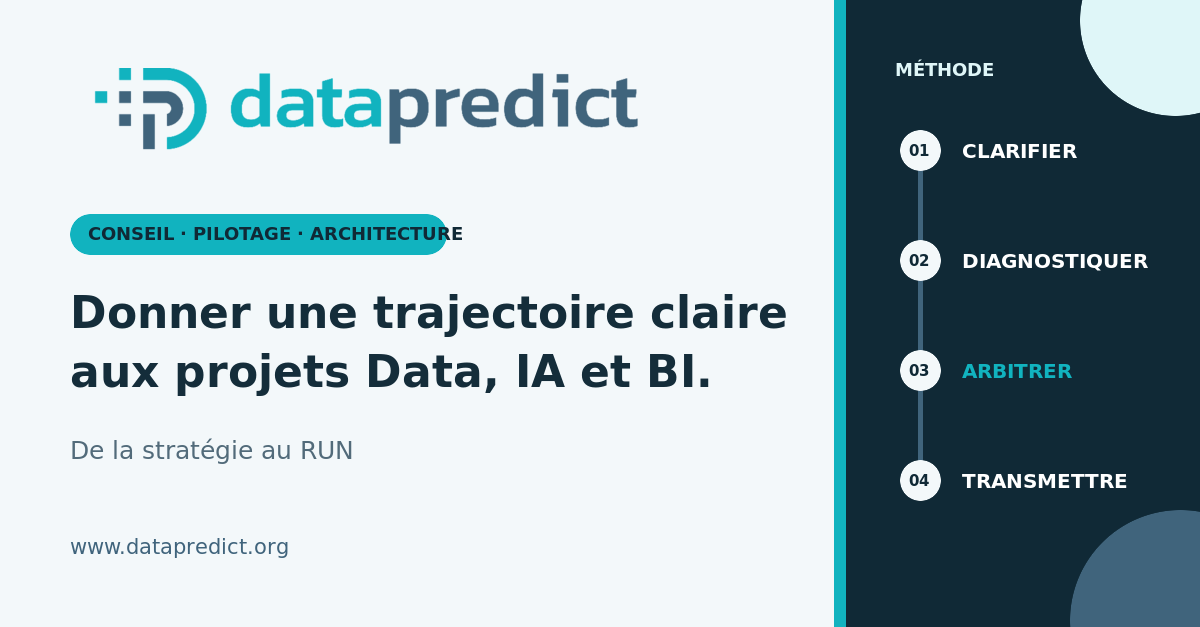
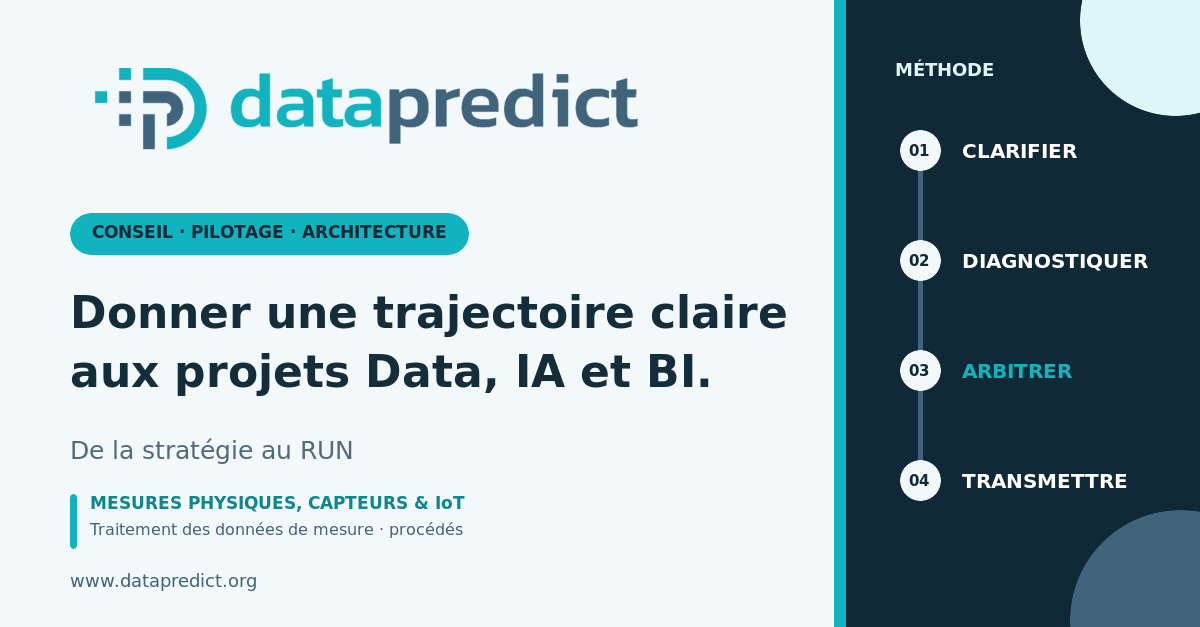
Corriger l’aperçu social datapredict

Changed region(s): [[0.0308, 0.7879, 0.4008, 0.9394], [0.0617, 0.3333, 0.4008, 0.4242]]

diff --git a/cas-clients.html b/cas-clients.html
@@ -16,10 +16,10 @@
   <meta property="og:image:type" content="image/png">
   <meta property="og:image:width" content="1200">
   <meta property="og:image:height" content="627">
-  <meta property="og:image:alt" content="Visuel datapredict : conseil, pilotage et architecture Data, IA et BI ; méthode clarifier, diagnostiquer, arbitrer, transmettre.">
+  <meta property="og:image:alt" content="Visuel datapredict : conseil, pilotage et architecture Data, IA et BI ; mesures physiques, capteurs et IoT ; méthode clarifier, diagnostiquer, arbitrer, transmettre.">
   <meta name="twitter:card" content="summary_large_image">
   <meta name="twitter:image" content="https://www.datapredict.org/assets/img/social-datapredict.png">
-  <meta name="twitter:image:alt" content="Visuel datapredict : conseil, pilotage et architecture Data, IA et BI ; méthode clarifier, diagnostiquer, arbitrer, transmettre.">
+  <meta name="twitter:image:alt" content="Visuel datapredict : conseil, pilotage et architecture Data, IA et BI ; mesures physiques, capteurs et IoT ; méthode clarifier, diagnostiquer, arbitrer, transmettre.">
   <meta name="theme-color" content="#102936">
   <link rel="stylesheet" href="assets/css/site.css">
 </head>

diff --git a/contact.html b/contact.html
@@ -16,10 +16,10 @@
   <meta property="og:image:type" content="image/png">
   <meta property="og:image:width" content="1200">
   <meta property="og:image:height" content="627">
-  <meta property="og:image:alt" content="Visuel datapredict : conseil, pilotage et architecture Data, IA et BI ; méthode clarifier, diagnostiquer, arbitrer, transmettre.">
+  <meta property="og:image:alt" content="Visuel datapredict : conseil, pilotage et architecture Data, IA et BI ; mesures physiques, capteurs et IoT ; méthode clarifier, diagnostiquer, arbitrer, transmettre.">
   <meta name="twitter:card" content="summary_large_image">
   <meta name="twitter:image" content="https://www.datapredict.org/assets/img/social-datapredict.png">
-  <meta name="twitter:image:alt" content="Visuel datapredict : conseil, pilotage et architecture Data, IA et BI ; méthode clarifier, diagnostiquer, arbitrer, transmettre.">
+  <meta name="twitter:image:alt" content="Visuel datapredict : conseil, pilotage et architecture Data, IA et BI ; mesures physiques, capteurs et IoT ; méthode clarifier, diagnostiquer, arbitrer, transmettre.">
   <meta name="theme-color" content="#102936">
   <link rel="stylesheet" href="assets/css/site.css">
 </head>

diff --git a/methode.html b/methode.html
@@ -16,10 +16,10 @@
   <meta property="og:image:type" content="image/png">
   <meta property="og:image:width" content="1200">
   <meta property="og:image:height" content="627">
-  <meta property="og:image:alt" content="Visuel datapredict : conseil, pilotage et architecture Data, IA et BI ; méthode clarifier, diagnostiquer, arbitrer, transmettre.">
+  <meta property="og:image:alt" content="Visuel datapredict : conseil, pilotage et architecture Data, IA et BI ; mesures physiques, capteurs et IoT ; méthode clarifier, diagnostiquer, arbitrer, transmettre.">
   <meta name="twitter:card" content="summary_large_image">
   <meta name="twitter:image" content="https://www.datapredict.org/assets/img/social-datapredict.png">
-  <meta name="twitter:image:alt" content="Visuel datapredict : conseil, pilotage et architecture Data, IA et BI ; méthode clarifier, diagnostiquer, arbitrer, transmettre.">
+  <meta name="twitter:image:alt" content="Visuel datapredict : conseil, pilotage et architecture Data, IA et BI ; mesures physiques, capteurs et IoT ; méthode clarifier, diagnostiquer, arbitrer, transmettre.">
   <meta name="theme-color" content="#102936">
   <link rel="stylesheet" href="assets/css/site.css">
 </head>

diff --git a/offres.html b/offres.html
@@ -16,10 +16,10 @@
   <meta property="og:image:type" content="image/png">
   <meta property="og:image:width" content="1200">
   <meta property="og:image:height" content="627">
-  <meta property="og:image:alt" content="Visuel datapredict : conseil, pilotage et architecture Data, IA et BI ; méthode clarifier, diagnostiquer, arbitrer, transmettre.">
+  <meta property="og:image:alt" content="Visuel datapredict : conseil, pilotage et architecture Data, IA et BI ; mesures physiques, capteurs et IoT ; méthode clarifier, diagnostiquer, arbitrer, transmettre.">
   <meta name="twitter:card" content="summary_large_image">
   <meta name="twitter:image" content="https://www.datapredict.org/assets/img/social-datapredict.png">
-  <meta name="twitter:image:alt" content="Visuel datapredict : conseil, pilotage et architecture Data, IA et BI ; méthode clarifier, diagnostiquer, arbitrer, transmettre.">
+  <meta name="twitter:image:alt" content="Visuel datapredict : conseil, pilotage et architecture Data, IA et BI ; mesures physiques, capteurs et IoT ; méthode clarifier, diagnostiquer, arbitrer, transmettre.">
   <meta name="theme-color" content="#102936">
   <link rel="stylesheet" href="assets/css/site.css">
 </head>

diff --git a/index.html b/index.html
@@ -16,10 +16,10 @@
   <meta property="og:image:type" content="image/png">
   <meta property="og:image:width" content="1200">
   <meta property="og:image:height" content="627">
-  <meta property="og:image:alt" content="Visuel datapredict : conseil, pilotage et architecture Data, IA et BI ; méthode clarifier, diagnostiquer, arbitrer, transmettre.">
+  <meta property="og:image:alt" content="Visuel datapredict : conseil, pilotage et architecture Data, IA et BI ; mesures physiques, capteurs et IoT ; méthode clarifier, diagnostiquer, arbitrer, transmettre.">
   <meta name="twitter:card" content="summary_large_image">
   <meta name="twitter:image" content="https://www.datapredict.org/assets/img/social-datapredict.png">
-  <meta name="twitter:image:alt" content="Visuel datapredict : conseil, pilotage et architecture Data, IA et BI ; méthode clarifier, diagnostiquer, arbitrer, transmettre.">
+  <meta name="twitter:image:alt" content="Visuel datapredict : conseil, pilotage et architecture Data, IA et BI ; mesures physiques, capteurs et IoT ; méthode clarifier, diagnostiquer, arbitrer, transmettre.">
   <meta name="theme-color" content="#102936">
   <script type="application/ld+json">
   {
